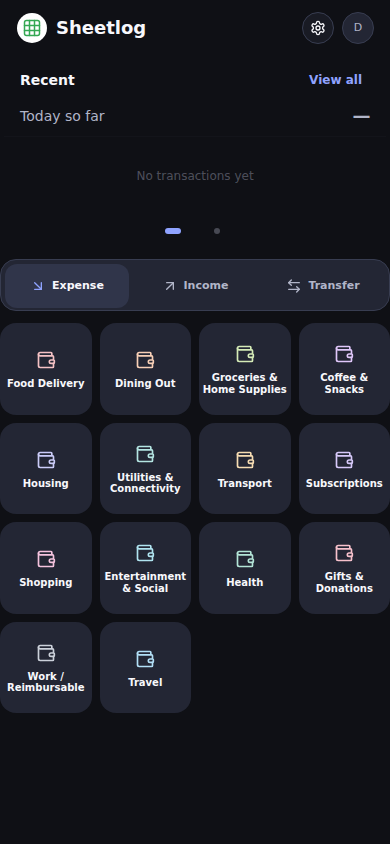
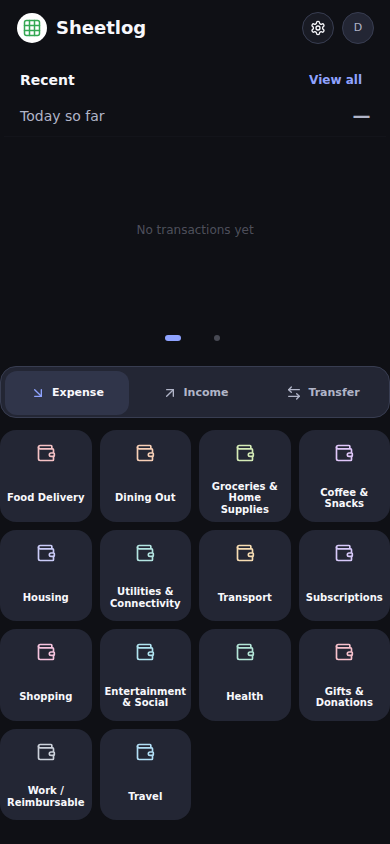
fix: align four-row category tiles

diff --git a/src/components/CategoryGrid.tsx b/src/components/CategoryGrid.tsx
@@ -162,7 +162,7 @@ function CategoryButton({
   return (
     <button
       type="button"
-      className="flex aspect-square min-w-0 flex-col items-center justify-center gap-1 overflow-hidden rounded-2xl border border-transparent bg-surface-2 p-1.5 text-center transition [touch-action:pan-x_pan-y] select-none hover:border-primary/50 focus-visible:border-primary focus-visible:outline-2 focus-visible:outline-offset-2 focus-visible:outline-ring min-[360px]:gap-1.5"
+      className="grid aspect-square min-w-0 grid-rows-2 overflow-hidden rounded-2xl border border-transparent bg-surface-2 p-0 text-center transition [touch-action:pan-x_pan-y] select-none hover:border-primary/50 focus-visible:border-primary focus-visible:outline-2 focus-visible:outline-offset-2 focus-visible:outline-ring"
       onClick={handleClick}
       onPointerDown={handlePointerDown}
       onPointerMove={handlePointerMove}
@@ -176,7 +176,7 @@ function CategoryButton({
       onContextMenu={(event) => event.preventDefault()}
     >
       <motion.span
-        className="flex h-5 w-5 items-center justify-center min-[360px]:h-6 min-[360px]:w-6"
+        className="flex h-full w-full items-center justify-center"
         animate={{ scale: isHovered ? 1.08 : 1 }}
         transition={springTransition}
       >
@@ -186,7 +186,7 @@ function CategoryButton({
           style={{ color: displayColor }}
         />
       </motion.span>
-      <span className="w-[calc(100%+0.75rem)] min-w-0 break-words text-[9px] font-semibold leading-[1.15] text-foreground min-[360px]:text-[10px]">
+      <span className="flex h-full w-full min-w-0 items-center justify-center break-words px-1.5 text-[9px] font-semibold leading-[1.15] text-foreground min-[360px]:text-[10px]">
         {category.name}
       </span>
     </button>

diff --git a/e2e/transaction-entry-carousel.spec.ts b/e2e/transaction-entry-carousel.spec.ts
@@ -132,16 +132,36 @@ test.describe("Transaction type and category carousel", () => {
       const tile = element.querySelector("button");
       if (!tile) throw new Error("Category tile missing");
       const tileRect = tile.getBoundingClientRect();
+      const iconRegion = tile.querySelector("svg")?.parentElement;
+      const labelRegion = tile.querySelector("span:last-child");
+      if (!iconRegion || !labelRegion) {
+        throw new Error("Category tile regions missing");
+      }
+      const iconRect = iconRegion.getBoundingClientRect();
+      const labelRect = labelRegion.getBoundingClientRect();
       const gridStyle = getComputedStyle(element);
       return {
         width: tileRect.width,
         height: tileRect.height,
+        iconCenter:
+          (iconRect.top + iconRect.height / 2 - tileRect.top) /
+          tileRect.height,
+        iconHeight: iconRect.height / tileRect.height,
+        labelCenter:
+          (labelRect.top + labelRect.height / 2 - tileRect.top) /
+          tileRect.height,
+        labelHeight: labelRect.height / tileRect.height,
         columns: gridStyle.gridTemplateColumns.split(" ").length,
         gap: gridStyle.columnGap,
         boxShadow: getComputedStyle(tile).boxShadow,
       };
     });
     expect(Math.abs(geometry.width - geometry.height)).toBeLessThan(1);
+    expect(Math.abs(geometry.iconCenter - 0.25)).toBeLessThan(0.01);
+    expect(Math.abs(geometry.labelCenter - 0.75)).toBeLessThan(0.01);
+    expect(Math.abs(geometry.iconHeight - geometry.labelHeight)).toBeLessThan(
+      0.001,
+    );
     expect(geometry.columns).toBe(4);
     expect(geometry.gap).toBe("8px");
     expect(geometry.boxShadow).toBe("none");

diff --git a/src/components/CategoryGrid.test.tsx b/src/components/CategoryGrid.test.tsx
@@ -46,6 +46,29 @@ describe("CategoryGrid", () => {
     );
   });
 
+  it("centers the icon in the top half and the label in the bottom half", () => {
+    renderGrid();
+
+    const tile = screen.getByRole("button", { name: "Food Delivery" });
+    const iconRegion = tile.querySelector("svg")?.parentElement;
+    const labelRegion = screen.getByText("Food Delivery");
+
+    expect(tile).toHaveClass("grid", "grid-rows-2", "p-0");
+    expect(iconRegion).toHaveClass(
+      "flex",
+      "h-full",
+      "w-full",
+      "items-center",
+      "justify-center",
+    );
+    expect(labelRegion).toHaveClass(
+      "flex",
+      "h-full",
+      "items-center",
+      "justify-center",
+    );
+  });
+
   it("constrains extreme custom colors to a contrast-safe foreground mix", () => {
     const extremeCategories = [
       { name: "White Icon", icon: "Wallet", color: "#ffffff" },

diff --git a/src/components/TransactionFlow/StepCategory.carousel.test.tsx b/src/components/TransactionFlow/StepCategory.carousel.test.tsx
@@ -117,7 +117,11 @@ describe("StepCategory carousel", () => {
 
   it("reserves a square four-row viewport with hidden vertical scrollbars", () => {
     const viewport = renderCarousel();
+    const categorySection = screen.getByRole("region", {
+      name: "Transaction type and categories",
+    });
 
+    expect(categorySection).toHaveClass("mx-auto", "w-full", "max-w-[390px]");
     expect(viewport).toHaveClass("aspect-square", "w-full", "flex-none");
     expect(viewport).not.toHaveClass("flex-1");
 

diff --git a/src/components/TransactionFlow/StepCategory.tsx b/src/components/TransactionFlow/StepCategory.tsx
@@ -219,7 +219,7 @@ export function StepCategory({
     <section
       aria-roledescription="carousel"
       aria-label="Transaction type and categories"
-      className="flex min-h-0 flex-col select-none"
+      className="mx-auto flex w-full max-w-[390px] min-h-0 flex-col select-none"
       onKeyDown={(event) => {
         const target = event.target as HTMLElement;
         const isNavigationTarget =

diff --git a/docs/superpowers/plans/2026-08-17-four-row-category-layout.md b/docs/superpowers/plans/2026-08-17-four-row-category-layout.md
@@ -4,7 +4,7 @@
 
 **Goal:** Reserve four stable category rows, hide their scrollbar, and give all remaining dashboard height to Transactions/Analytics without changing category gestures.
 
-**Architecture:** Replace the fixed one-quarter/three-quarter dashboard split with a remaining-space row plus an intrinsic category row. Make the four-column category carousel viewport square, so four rows of square tiles and their existing equal gaps occupy exactly the viewport width; each slide keeps vertical overflow enabled while hiding scrollbar chrome.
+**Architecture:** Replace the fixed one-quarter/three-quarter dashboard split with a remaining-space row plus an intrinsic category row. Make the four-column category carousel viewport square, capped at the actual app's 390 px scale on wider host surfaces, so four rows of square tiles and their existing equal gaps occupy exactly the viewport width; each slide keeps vertical overflow enabled while hiding scrollbar chrome.
 
 **Tech Stack:** React 18, TypeScript, Tailwind CSS 4, Vitest, Testing Library, Playwright
 
@@ -14,6 +14,8 @@
 
 - `src/components/TransactionFlow/index.tsx`: assign remaining dashboard height to `HomeDashboardCarousel` and make the category row intrinsic.
 - `src/components/TransactionFlow/StepCategory.tsx`: reserve the responsive four-row viewport and hide each slide's vertical scrollbar.
+- `src/components/CategoryGrid.tsx`: split each square tile into equal icon and label regions.
+- `src/components/CategoryGrid.test.tsx`: guard the tile's equal-half content alignment and existing interactions.
 - `src/components/TransactionFlow/TransactionFlow.test.tsx`: guard the dashboard track allocation.
 - `src/components/TransactionFlow/StepCategory.carousel.test.tsx`: guard square sizing and hidden-but-enabled vertical overflow.
 - `e2e/transaction-entry-carousel.spec.ts`: verify real browser geometry at the 390×844 app viewport.
@@ -181,7 +183,7 @@ Use these classes in `StepCategory`:
 <section
   aria-roledescription="carousel"
   aria-label="Transaction type and categories"
-  className="flex min-h-0 flex-col select-none"
+  className="mx-auto flex w-full max-w-[390px] min-h-0 flex-col select-none"
 >
 ```
 
@@ -201,6 +203,10 @@ Use these classes in `StepCategory`:
 ```
 
 Retain every existing event handler, ref, ARIA attribute, and `CategoryGrid` prop. Remove only the old `h-full` on the outer section, `flex-1` on the carousel viewport, and `pb-2` on each slide.
+
+- [ ] **Step 2a: Split category tile content into equal halves**
+
+In `CategoryGrid`, use a two-row grid with no outer padding. Make the icon wrapper fill and center within row one; make the wrapping label fill and center within row two with horizontal padding. Retain all pointer, click, hover, focus, and context-menu handlers unchanged.
 
 - [ ] **Step 3: Re-run the focused unit tests and verify GREEN**
 

diff --git a/docs/superpowers/specs/2026-08-17-four-row-category-layout-design.md b/docs/superpowers/specs/2026-08-17-four-row-category-layout-design.md
@@ -8,7 +8,9 @@ Give the Transactions/Analytics section all vertical space that is not required 
 
 - Reserve exactly four visible category rows for every transaction type, including tabs with fewer than four populated rows.
 - Keep the existing four-column grid and square category tiles.
+- Divide every category tile into two equal vertical regions: center the icon in the top half and center the wrapping label in the bottom half.
 - Size the category viewport from its rendered width so the four square rows remain proportional at every supported app width.
+- Keep the category section at the actual app's 390 px maximum scale and center it on wider host surfaces, preventing the picker from consuming the Home carousel's usable gesture area.
 - Let the Transactions/Analytics section consume the remaining height above the category picker.
 - Allow categories beyond the fourth row to scroll vertically inside the category viewport, but hide the visual scrollbar.
 - Keep the compact transaction-type tabs within the category section and preserve their existing spacing and Graphite Indigo theme.
